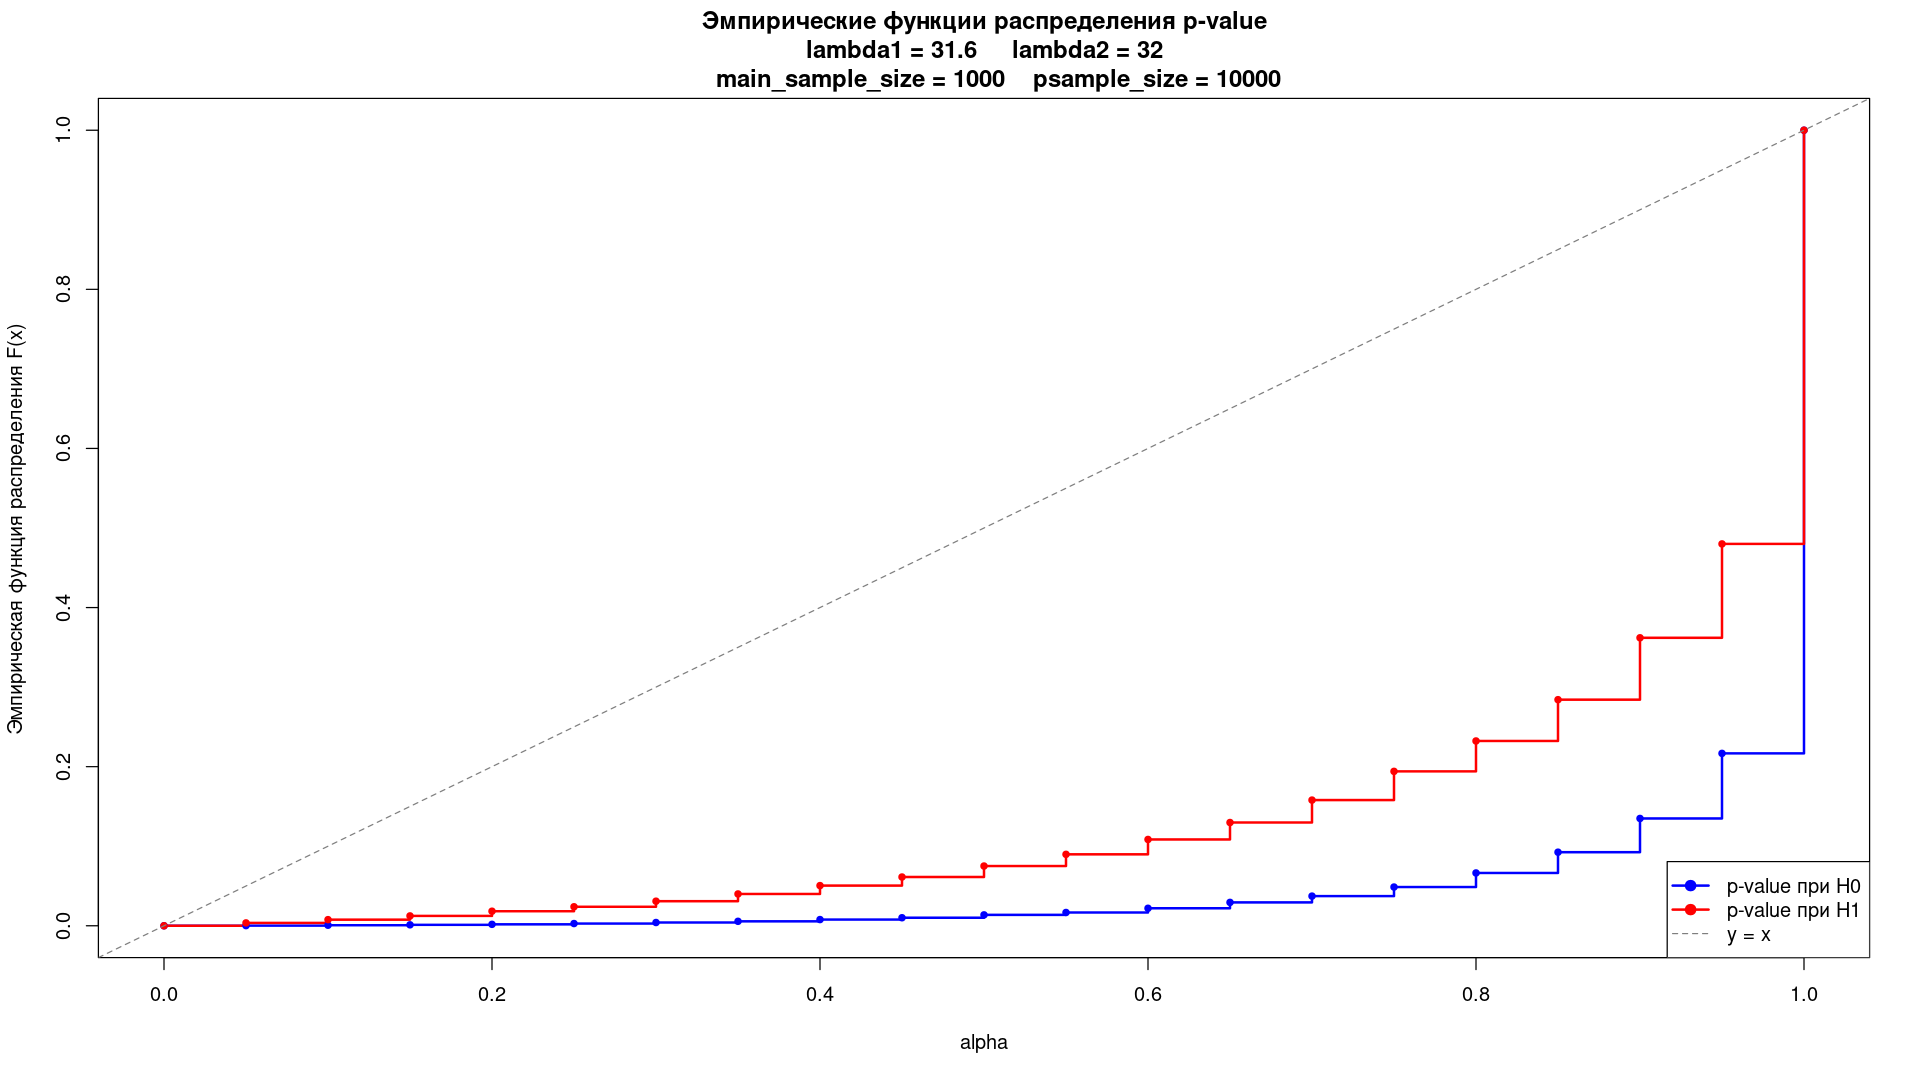
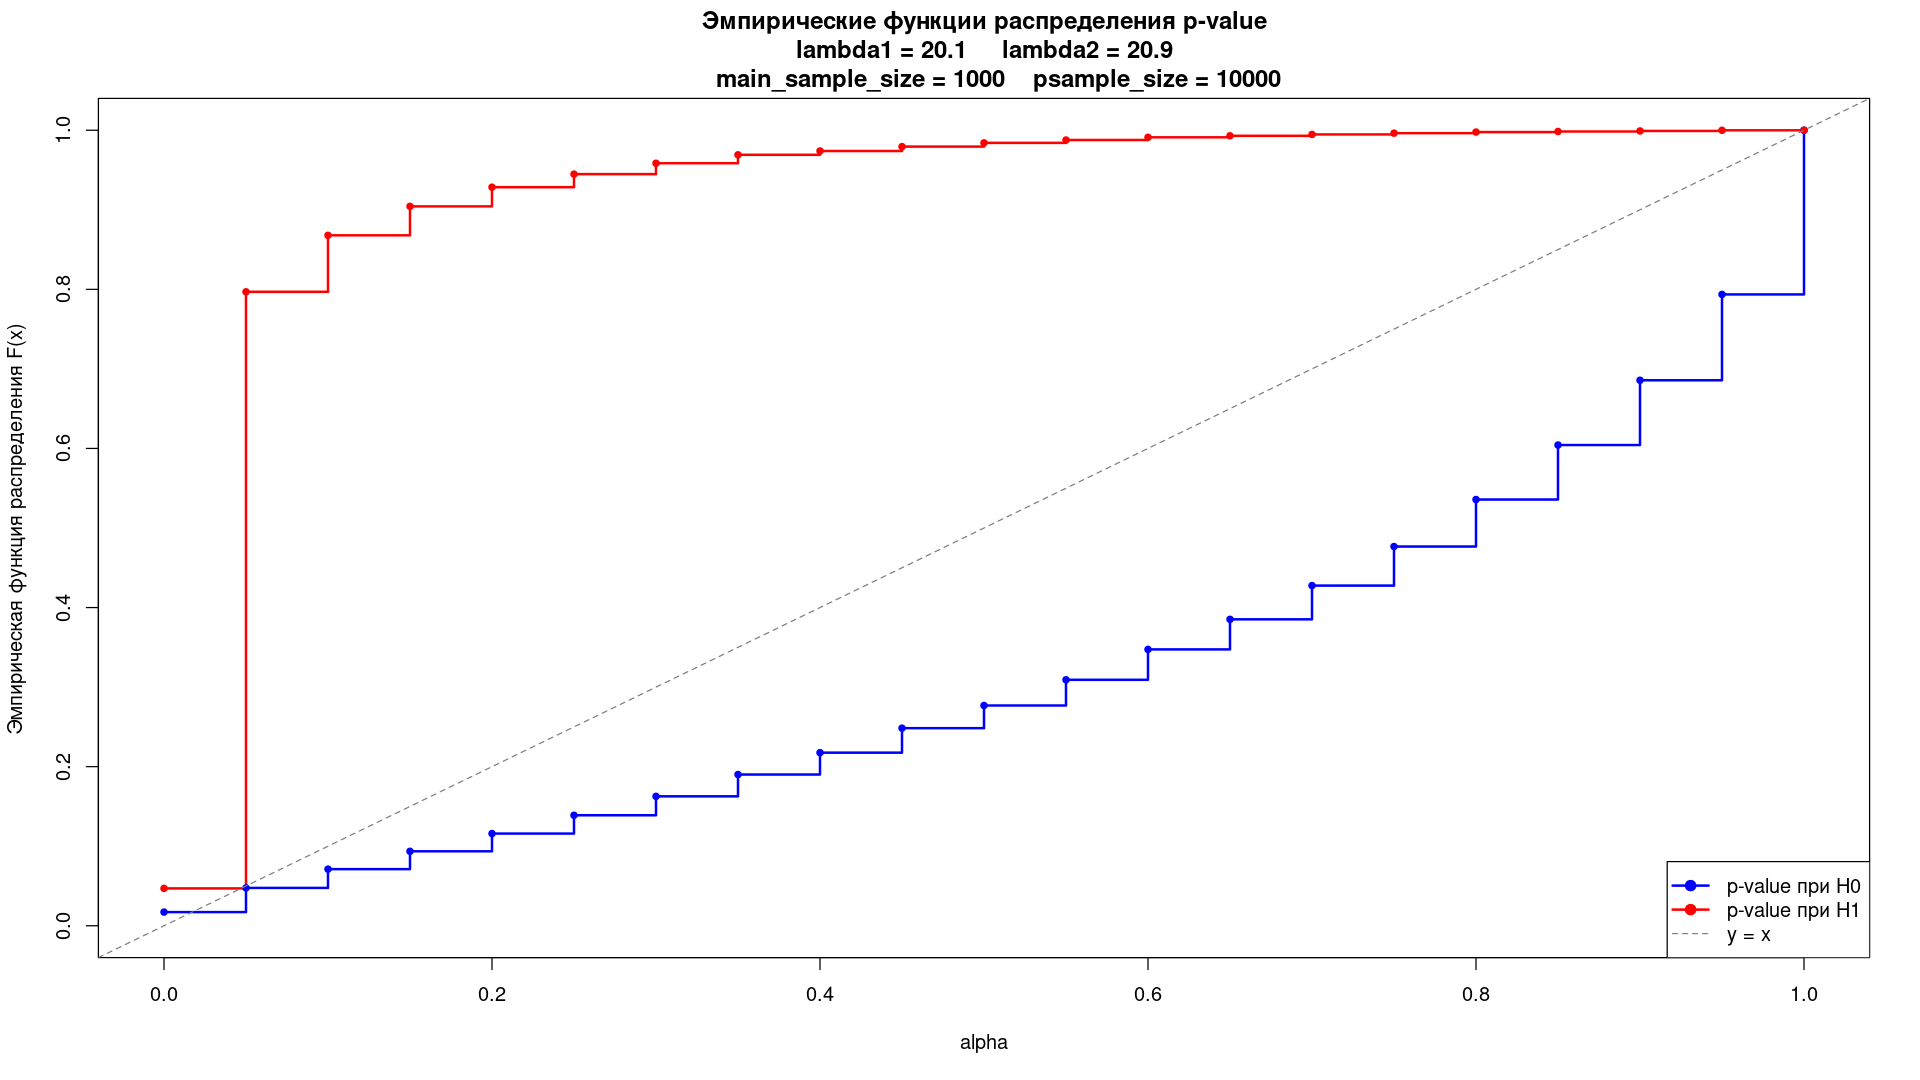
finished?

diff --git a/mod.cpp b/mod.cpp
@@ -1,5 +1,6 @@
 #include "mod.h"
 
+const double good_step_size = 0.05;
 
 double pval(double h0_param, double h1_param, int sample_size, std::mt19937_64 &gen, int verbose){
     int X[sample_size];
@@ -35,4 +36,73 @@ void psample(double h0_param, double h1_param, int psample_size,
              double *X, int main_sample_size, std::mt19937_64 &gen){
     for(int i=0; i<psample_size; ++i)
         X[i] = pval(h0_param, h1_param, main_sample_size, gen, 0);
+}
+
+int comp(const void* a, const void* b) {
+    double arg1 = *(const double*)a;
+    double arg2 = *(const double*)b;
+    
+    if (arg1 < arg2) return -1;
+    if (arg1 > arg2) return 1;
+    return 0;
+}
+
+//F must be F[ (int) (1 / n_bins) ]
+// X[i] must be from [0,1]
+void ecdf(double *X, int N, double step_size, double *F){
+    double sorted_X[N];
+    memcpy(sorted_X, X, sizeof(double)*N);
+    qsort(X, N, sizeof(double), comp);
+
+    int n_bins = (1.0 / step_size);
+    double t = step_size;
+    int j = 0;
+
+    for(int i=0; i<N; ++i){
+        // std::cout << "i = "<< i << "\n";
+        // std::cout << "X[i] = "<< X[i] << "\n";
+        while(X[i] >= t){
+            // std::cout << "fix "<< j << " " << t << "\n";
+            ++j;
+            t += step_size;
+        }
+        // std::cout << "good "<< j << " " << t << "\n\n";
+        ++F[j];
+    }
+
+    F[0] = F[0] / N;
+    double cum = F[0];
+    for(int i=1; i<n_bins; ++i){
+        F[i] = F[i-1] + F[i] / N;
+    }
+
+}
+
+void pecdf(double lambda1, double lambda2, double alpha,
+           int psample_size, int main_sample_size, std::mt19937_64 &gen){
+    
+    int N = 1 / good_step_size;
+
+    double p0[psample_size];
+    psample(lambda1, lambda1, psample_size, p0, main_sample_size, gen);        
+    double F0[N]{};
+    ecdf(p0, psample_size, good_step_size, F0);    
+
+    double p1[psample_size];
+    psample(lambda1, lambda2, psample_size, p1, main_sample_size, gen);
+    double F1[N]{};
+    ecdf(p1, psample_size, good_step_size, F1);  
+    
+    std::cout << "pval     F0     F1\n";
+    for(int i=0; i<N; ++i){
+        printf("%3.2f  %5.3f  %5.3f\n", good_step_size*(i+1), F0[i], F1[i]);
+    }
+
+    std::cout << "\n";
+    printf("on alpha = %.3f\n", alpha);
+    int ix = 0;
+    if(alpha >= good_step_size){
+        ix = alpha / good_step_size - 1 + 1e-6;
+    }
+    printf("ERR_1 = %.3f   POW = %.3f\n", F0[ix], F1[ix]);
 }

diff --git a/main.cpp b/main.cpp
@@ -1,6 +1,5 @@
 #include <iostream>
 #include "gen.h"
-#include "funcs.h"
 #include "mod.h"
 #include "PROBDIST.H"
 
@@ -57,8 +56,8 @@ void test_pval(){
 
 void test_psample(){
     std::mt19937_64 gen(std::random_device{}());
-    double lambda1 = 31.6;
-    double lambda2 = 32;
+    double lambda1 = 20.1;
+    double lambda2 = 20.9;
     const int psample_size = 10000;
     int main_sample_size = 1000;
 
@@ -114,10 +113,33 @@ void test_chi2(){
 
 }
 
+
+
+void test_ecdf(){
+
+    double X[] = {0.9, 0.9, 0.04, 0.03, 0.5, 0.5, 0.5, 0.5, 0.7};
+
+    double step = 0.05;
+    int N = 1 / step;
+    double F[N]{};
+
+    ecdf(X, 9, step, F);
+
+    print_arr(X, 9);
+    for(int i=0; i<N; ++i){
+        printf("%.2f  %.2f\n", step*(i+1), F[i]);
+    }
+}
+
+
 int main(){
     //test_rpois();
     //test_pchisq();
     //test_pval();
-    // test_psample();
-    test_chi2();
+    test_psample();
+    // test_chi2();
+    //test_ecdf();
+
+    std::mt19937_64 gen(std::random_device{}());
+    pecdf(20.1, 20.9, 0.15, 10000, 1000, gen);
 }

diff --git a/mod.h b/mod.h
@@ -1,8 +1,16 @@
 #include "funcs.h"
 #include "gen.h"
 #include "PROBDIST.H"
+#include "cstring"
 
 double pval(double h0_param, double h1_param, int sample_size, std::mt19937_64 &gen, int verbose);
 
 void psample(double h0_param, double h1_param, int psample_size,
              double *X, int main_sample_size, std::mt19937_64 &gen);
+
+
+void pecdf(double lambda1, double lambda2, double alpha,
+           int psample_size, int main_sample_size, std::mt19937_64 &gen);
+
+void ecdf(double *X, int N, double step_size, double *F);
+

diff --git a/funcs.h b/funcs.h
@@ -5,3 +5,13 @@
 double pchsisq(double t, int k);
 
 double chisq_stat(int *X, int sample_size, double *p, int N, int verbose);
+
+
+template <typename T>
+void print_arr(T x, int n){
+    std::cout << "[" ;
+    for(int i=0; i<n; ++i){
+        std::cout << x[i] << " ";
+    }
+    std::cout << "]\n";
+}

diff --git a/funcs.cpp b/funcs.cpp
@@ -10,14 +10,7 @@ void sep(char c, int n, int m){
 
 }
 
-template <typename T>
-void print_arr(T x, int n){
-    std::cout << "[" ;
-    for(int i=0; i<n; ++i){
-        std::cout << x[i] << " ";
-    }
-    std::cout << "]\n";
-}
+
 
 template <typename T>
 double sum_arr(T x, int n){
